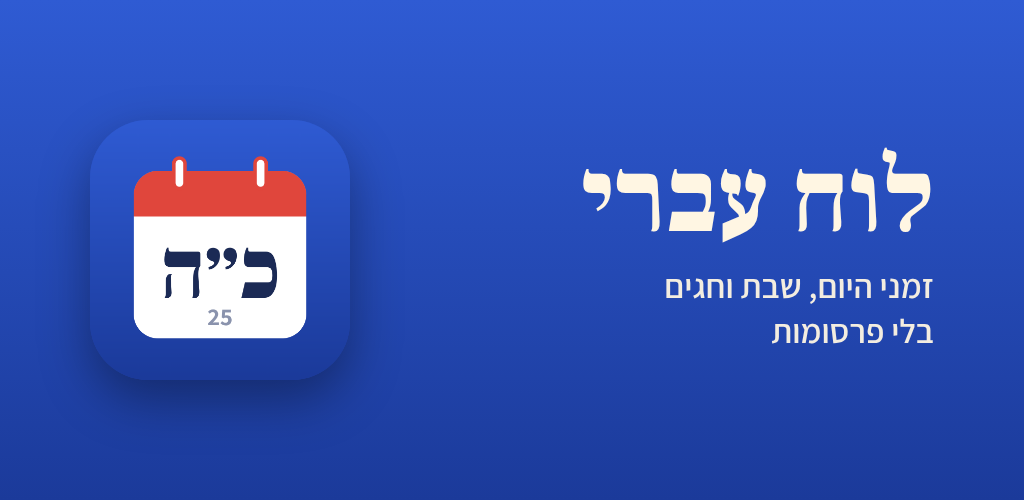
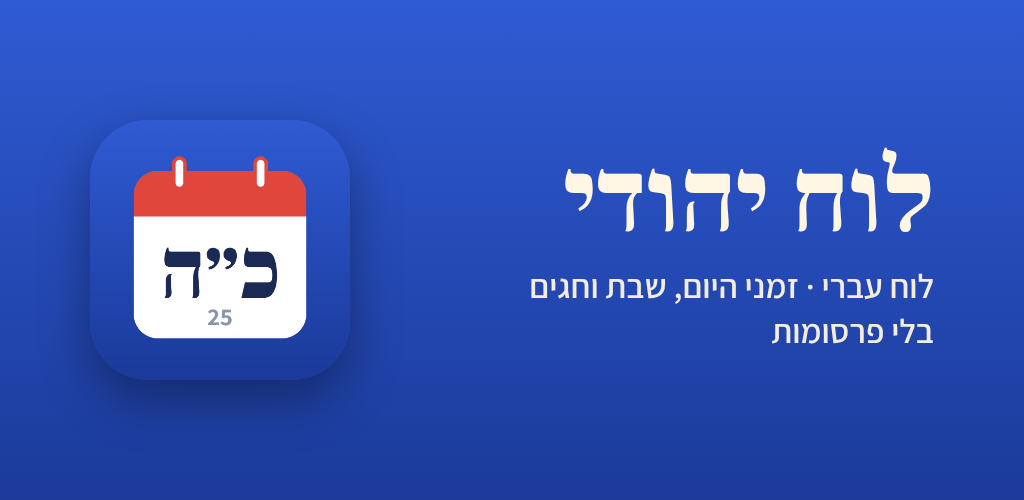
Rename to 'לוח יהודי' (Google Play / Android), 'לוח עברי' on the App Store / iPhone
- App id is now com.luachyehudi.app on both platforms (nothing uploaded yet).
- Android label and widget: לוח יהודי; iOS display name stays לוח עברי
  (Apple asks that the device name match the store name).
- In-app name comes from src/lib/brand.ts by platform.
- Store texts, privacy page, publishing guide, feature graphic and
  screenshots updated.

Claude-Session: https://claude.ai/code/session_017QrNw6QiW1QfANzvZHNAh4

Changed region(s): [[0.5312, 0.33, 0.75, 0.48], [0.5, 0.54, 0.9062, 0.6]]

diff --git a/src/components/NotifySheet.tsx b/src/components/NotifySheet.tsx
@@ -1,4 +1,5 @@
 import { useMemo, useState } from 'react';
+import { APP_NAME } from '../lib/brand';
 import { WEEKDAYS, gregDateStr, today } from '../lib/cal';
 import type { City } from '../lib/cities';
 import { alertText, buildShabbatIcs, shabbatAlerts } from '../lib/ics';
@@ -41,7 +42,7 @@ function NativeNotify({ city, settings, onChange, onClose }: Props) {
       if (on) {
         const p = await notificationPermission(true);
         if (p !== 'granted') {
-          setMsg('ההתראות חסומות. אפשר להפעיל אותן בהגדרות הטלפון ← אפליקציות ← לוח עברי ← התראות, ולנסות שוב.');
+          setMsg(`ההתראות חסומות. אפשר להפעיל אותן בהגדרות הטלפון ← אפליקציות ← ${APP_NAME} ← התראות, ולנסות שוב.`);
           return;
         }
         set({ nativeAlerts: true });
@@ -94,7 +95,7 @@ function Preview({ alerts, city, time }: { alerts: ReturnType<typeof shabbatAler
           <div className="notif" key={a.friday.getTime()}>
             <div className="notif-head">
               <span className="notif-app">
-                <Icon name="candle" size={14} /> לוח עברי
+                <Icon name="candle" size={14} /> {APP_NAME}
               </span>
               <span>
                 יום {WEEKDAYS[5]}, {gregDateStr(a.friday, false)} · {time}
@@ -155,7 +156,7 @@ function WebNotify({ city, settings, onChange, onClose }: Props) {
 
   const share = async () => {
     try {
-      await navigator.share({ files: [makeFile()], title: 'זמני שבת — לוח עברי' });
+      await navigator.share({ files: [makeFile()], title: `זמני שבת — ${APP_NAME}` });
       setDone(true);
       setMsg('שותף. בחרו באפליקציית היומן כדי להוסיף את ההתראות.');
     } catch (e) {

diff --git a/src/components/AlertsSheet.tsx b/src/components/AlertsSheet.tsx
@@ -1,4 +1,5 @@
 import { useMemo, useState } from 'react';
+import { APP_NAME } from '../lib/brand';
 import { CANDLE_OFFSETS, IOS_LIMIT, ZMAN_ALERTS, ZMAN_OFFSETS, planNotifications, type PlannedNotification } from '../lib/alerts';
 import { WEEKDAYS_SHORT, roundTo, timeFmt, today, zmanim } from '../lib/cal';
 import type { City } from '../lib/cities';
@@ -31,7 +32,7 @@ export function AlertsSheet({ city, settings, myEvents, onChange, onFriday, onCl
       try {
         const p = await notificationPermission(true);
         if (p !== 'granted') {
-          setMsg('ההתראות חסומות. אפשר להפעיל אותן בהגדרות הטלפון ← אפליקציות ← לוח עברי ← התראות, ולנסות שוב.');
+          setMsg(`ההתראות חסומות. אפשר להפעיל אותן בהגדרות הטלפון ← אפליקציות ← ${APP_NAME} ← התראות, ולנסות שוב.`);
           return;
         }
       } catch {
@@ -206,7 +207,7 @@ function Preview({ list, fmt }: { list: PlannedNotification[]; fmt: Intl.DateTim
         <div className="notif" key={n.id}>
           <div className="notif-head">
             <span className="notif-app">
-              <Icon name={n.channel === 'zmanim' ? 'bell' : n.channel === 'reminders' ? 'today' : 'candle'} size={14} /> לוח עברי
+              <Icon name={n.channel === 'zmanim' ? 'bell' : n.channel === 'reminders' ? 'today' : 'candle'} size={14} /> {APP_NAME}
             </span>
             <span>
               יום {WEEKDAYS_SHORT[n.at.getDay()]} · {fmt.format(n.at)}

diff --git a/src/App.tsx b/src/App.tsx
@@ -14,6 +14,7 @@ import { AlertsSheet } from './components/AlertsSheet';
 import { LocationSheet } from './components/LocationSheet';
 import { isNative, pushWidget, syncNotifications } from './lib/native';
 import { buildWidgetData } from './lib/widget';
+import { APP_NAME } from './lib/brand';
 import { planNotifications } from './lib/alerts';
 
 type SheetName = null | 'jump' | 'settings' | 'event' | 'notify' | 'alerts' | 'location';
@@ -140,7 +141,7 @@ export default function App() {
       <header className="topbar">
         <div className="brand">
           <BrandMark />
-          <span className="brand-name">לוח עברי</span>
+          <span className="brand-name">{APP_NAME}</span>
         </div>
         <div className="top-actions">
           <button className="chip-btn" onClick={() => setSheet('location')} aria-label={`מיקום: ${city.name}. שינוי מיקום`}>
@@ -226,7 +227,7 @@ export default function App() {
       </main>
 
       <footer className="foot">
-        לוח עברי · יומן עברי־לועזי ללא פרסומות · מקשי קיצור: ← → ימים, PgUp/PgDn חודשים, T היום, G קפיצה
+        {APP_NAME} · יומן עברי־לועזי ללא פרסומות · מקשי קיצור: ← → ימים, PgUp/PgDn חודשים, T היום, G קפיצה
       </footer>
 
       {sheet === 'notify' && <NotifySheet city={city} settings={settings} onChange={setSettings} onClose={closeSheet} />}

diff --git a/src/lib/ics.ts b/src/lib/ics.ts
@@ -47,7 +47,7 @@ export function alertText(a: ShabbatAlert, city: City) {
   const late = a.havdalahDay.getDay() !== 6 ? ` (ביום ${['א׳', 'ב׳', 'ג׳', 'ד׳', 'ה׳', 'ו׳', 'ש׳'][a.havdalahDay.getDay()]})` : '';
   return {
     summary: `🕯 ${a.title} · כניסה ${f.format(a.candles)} · יציאה ${f.format(a.havdalah)}${late}`,
-    body: `${a.title} ב${city.name}\nהדלקת נרות: ${f.format(a.candles)}\nצאת השבת: ${f.format(a.havdalah)}${late}\n\nנשלח מלוח עברי`,
+    body: `${a.title} ב${city.name}\nהדלקת נרות: ${f.format(a.candles)}\nצאת השבת: ${f.format(a.havdalah)}${late}\n\nנשלח מלוח יהודי`,
   };
 }
 
@@ -105,7 +105,7 @@ const utc = (d: Date) =>
 export function buildShabbatIcs(alerts: ShabbatAlert[], city: City, time: string) {
   const [hh, mm] = time.split(':').map(Number);
   const stamp = utc(new Date());
-  const lines = ['BEGIN:VCALENDAR', 'VERSION:2.0', 'PRODID:-//LuachIvri//Shabbat alerts//HE', 'CALSCALE:GREGORIAN', 'METHOD:PUBLISH', 'X-WR-CALNAME:זמני שבת — לוח עברי'];
+  const lines = ['BEGIN:VCALENDAR', 'VERSION:2.0', 'PRODID:-//LuachIvri//Shabbat alerts//HE', 'CALSCALE:GREGORIAN', 'METHOD:PUBLISH', 'X-WR-CALNAME:זמני שבת — לוח יהודי'];
   for (const a of alerts) {
     const { summary, body } = alertText(a, city);
     const start = local(a.friday, hh, mm);

diff --git a/public/privacy.html b/public/privacy.html
@@ -3,7 +3,7 @@
 <head>
 <meta charset="utf-8">
 <meta name="viewport" content="width=device-width, initial-scale=1">
-<title>לוח עברי · מדיניות פרטיות</title>
+<title>לוח יהודי · מדיניות פרטיות</title>
 <style>
   :root { --bg: #f4f5f9; --fg: #161a2e; --muted: #5f6681; color-scheme: light; }
   @media (prefers-color-scheme: dark) { :root { --bg: #0a0e20; --fg: #e8ebf8; --muted: #949bbb; color-scheme: dark; } }
@@ -17,10 +17,10 @@
 </head>
 <body>
 <main>
-  <h1>מדיניות הפרטיות של לוח עברי</h1>
+  <h1>מדיניות הפרטיות של לוח יהודי</h1>
   <p class="muted">עודכן לאחרונה: נובמבר 2026</p>
 
-  <p>לוח עברי היא אפליקציית לוח שנה עברי־לועזי וזמני היום. היא בנויה כך שהמידע שלכם נשאר אצלכם.</p>
+  <p>לוח יהודי (ב־App Store: "לוח עברי") היא אפליקציית לוח שנה עברי־לועזי וזמני היום. היא בנויה כך שהמידע שלכם נשאר אצלכם.</p>
 
   <h2>מה אנחנו אוספים</h2>
   <p>שום דבר. האפליקציה לא שולחת לשום שרת מידע אישי, מיקום, אירועים או נתוני שימוש. אין בה פרסומות, אין כלי מעקב או ניתוח, ואין צורך בהרשמה.</p>

diff --git a/index.html b/index.html
@@ -2,14 +2,14 @@
 <html lang="he" dir="rtl">
   <head>
     <meta charset="UTF-8" />
-    <title>לוח עברי</title>
+    <title>לוח יהודי</title>
     <meta name="viewport" content="width=device-width, initial-scale=1, viewport-fit=cover" />
     <meta name="claude:viewport-fit-sides" content="cover" />
     <meta name="description" content="יומן עברי-לועזי עם זמני היום, חגים, לימוד יומי ואירועים אישיים — בלי פרסומות" />
     <meta name="theme-color" content="#1F3E9E" />
     <meta name="apple-mobile-web-app-capable" content="yes" />
     <meta name="apple-mobile-web-app-status-bar-style" content="black-translucent" />
-    <meta name="apple-mobile-web-app-title" content="לוח עברי" />
+    <meta name="apple-mobile-web-app-title" content="לוח יהודי" />
     <link rel="icon" href="icon.svg" type="image/svg+xml" />
     <link rel="apple-touch-icon" href="icon-192.png" />
   </head>

diff --git a/src/lib/brand.ts b/src/lib/brand.ts
@@ -1,0 +1,9 @@
+import { Capacitor } from '@capacitor/core';
+
+/**
+ * The app's name. On Android and on the web it is "לוח יהודי"; on the App Store it is
+ * published as "לוח עברי", and Apple asks that the name on the device match the store.
+ * (`?brand=ios` in the URL forces the iPhone name, for store screenshots.)
+ */
+const forced = typeof location !== 'undefined' ? new URLSearchParams(location.search).get('brand') : null;
+export const APP_NAME = Capacitor.getPlatform() === 'ios' || forced === 'ios' ? 'לוח עברי' : 'לוח יהודי';

diff --git a/vite.config.ts b/vite.config.ts
@@ -25,8 +25,8 @@ export default defineConfig(({ mode }) => {
             registerType: 'autoUpdate',
             includeAssets: ['icon.svg'],
             manifest: {
-              name: 'לוח עברי',
-              short_name: 'לוח עברי',
+              name: 'לוח יהודי',
+              short_name: 'לוח יהודי',
               description: 'יומן עברי-לועזי עם זמני היום, חגים ואירועים אישיים',
               lang: 'he',
               dir: 'rtl',

diff --git a/capacitor.config.ts b/capacitor.config.ts
@@ -2,8 +2,8 @@ import type { CapacitorConfig } from '@capacitor/cli';
 
 const config: CapacitorConfig = {
   // The store identifier. It cannot be changed after the first upload to Google Play / App Store.
-  appId: 'com.luachivri.app',
-  appName: 'לוח עברי',
+  appId: 'com.luachyehudi.app',
+  appName: 'לוח יהודי',
   webDir: 'dist-native',
   backgroundColor: '#1F3E9E',
   android: {

diff --git a/android/app/src/main/java/com/luachyehudi/app/LuachWidgetProvider.java b/android/app/src/main/java/com/luachyehudi/app/LuachWidgetProvider.java
@@ -1,4 +1,4 @@
-package com.luachivri.app;
+package com.luachyehudi.app;
 
 import android.app.AlarmManager;
 import android.app.PendingIntent;
@@ -26,7 +26,7 @@ public class LuachWidgetProvider extends AppWidgetProvider {
 
     static final String PREFS = "luach_widget";
     static final String KEY = "data";
-    static final String ACTION_TICK = "com.luachivri.app.WIDGET_TICK";
+    static final String ACTION_TICK = "com.luachyehudi.app.WIDGET_TICK";
     private static final long HALF_HOUR = 30L * 60L * 1000L;
 
     @Override

diff --git a/android/app/src/main/java/com/luachyehudi/app/MainActivity.java b/android/app/src/main/java/com/luachyehudi/app/MainActivity.java
@@ -1,4 +1,4 @@
-package com.luachivri.app;
+package com.luachyehudi.app;
 
 import android.os.Bundle;
 import com.getcapacitor.BridgeActivity;

diff --git a/android/app/src/main/java/com/luachyehudi/app/WidgetBridgePlugin.java b/android/app/src/main/java/com/luachyehudi/app/WidgetBridgePlugin.java
@@ -1,4 +1,4 @@
-package com.luachivri.app;
+package com.luachyehudi.app;
 
 import android.content.Context;
 import com.getcapacitor.Plugin;
